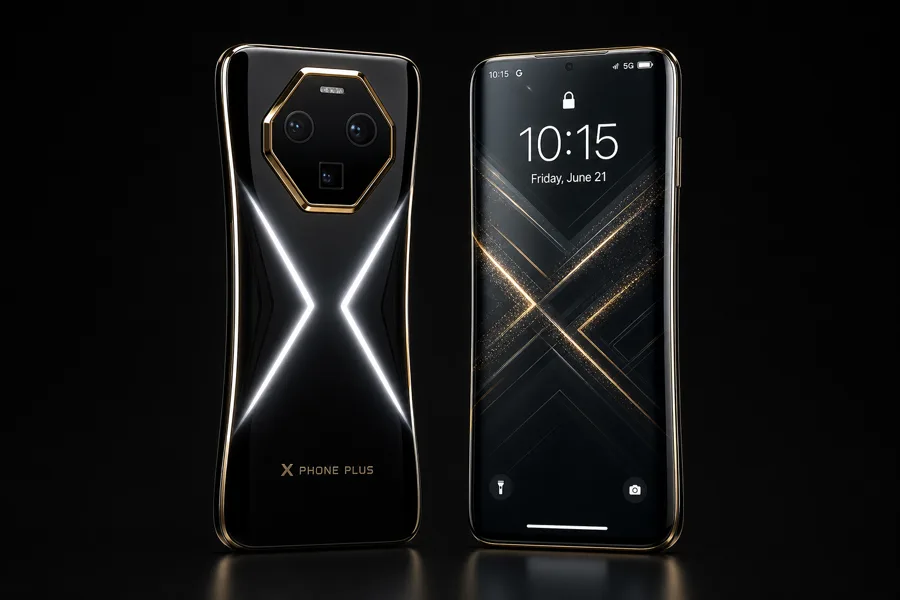
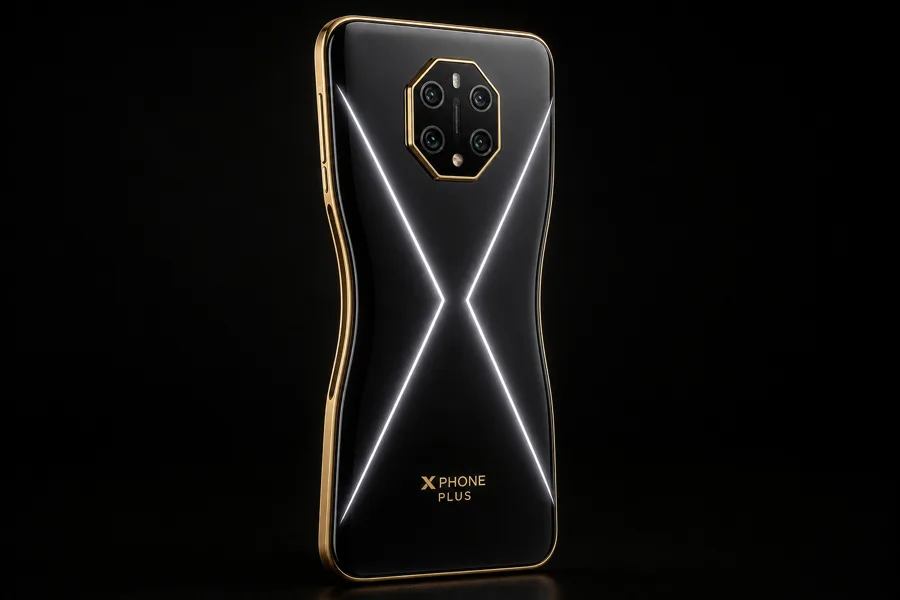
Fix X Phone Plus image: single consistent hourglass silhouette
Replace mismatched front/back dual view with one unified back-angle
product shot so the phone shape is consistent.

Changed region(s): [[0.2178, 0.0, 0.7778, 1.0]]

diff --git a/cart.js b/cart.js
@@ -3,7 +3,7 @@
 
   const products = {
     'x-phone': { id: 'x-phone', name: 'X Phone', price: 899, image: 'images/v4/x-phone.webp?b=3', storage: '256GB' },
-    'x-phone-plus': { id: 'x-phone-plus', name: 'X Phone Plus', price: 1099, image: 'images/v4/x-phone-plus.webp?b=3', storage: '512GB' },
+    'x-phone-plus': { id: 'x-phone-plus', name: 'X Phone Plus', price: 1099, image: 'images/v4/x-phone-plus.webp?b=4', storage: '512GB' },
     'x-phone-pro': { id: 'x-phone-pro', name: 'X Phone Pro', price: 1299, image: 'images/v4/x-phone-pro.webp', storage: '1TB' },
     'x-phone-max': { id: 'x-phone-max', name: 'X Phone Max', price: 1599, image: 'images/v4/x-phone-pro-max.webp', storage: '1.5TB' },
     'x-phone-elite': { id: 'x-phone-elite', name: 'X Phone Elite', price: 1899, image: 'images/v4/x-phone-ultra.webp', storage: '2TB' },

diff --git a/index.html b/index.html
@@ -37,7 +37,7 @@
         </a>
 
         <a href="x-phone-plus.html" class="group block hover:opacity-90 transition">
-          <img src="images/v4/x-phone-plus.webp?b=3" width="800" height="600" loading="lazy" decoding="async" class="w-full aspect-[4/3] object-cover rounded-3xl mb-6 bg-zinc-900" alt="X Phone Plus">
+          <img src="images/v4/x-phone-plus.webp?b=4" width="800" height="600" loading="lazy" decoding="async" class="w-full aspect-[4/3] object-cover rounded-3xl mb-6 bg-zinc-900" alt="X Phone Plus">
           <h3 class="text-3xl font-bold">X Phone Plus</h3>
           <p class="text-zinc-400 text-lg">512GB</p>
           <p class="text-blue-400 text-2xl mb-4">$1,099</p>

diff --git a/shop.html b/shop.html
@@ -29,7 +29,7 @@
 
       <!-- Model 2 -->
       <div class="bg-zinc-900 rounded-3xl overflow-hidden">
-        <a href="x-phone-plus.html"><img src="images/v4/x-phone-plus.webp?b=3" width="800" height="600" loading="lazy" decoding="async" class="w-full h-64 object-cover" alt="X Phone Plus"></a>
+        <a href="x-phone-plus.html"><img src="images/v4/x-phone-plus.webp?b=4" width="800" height="600" loading="lazy" decoding="async" class="w-full h-64 object-cover" alt="X Phone Plus"></a>
         <div class="p-8">
           <h3 class="text-2xl font-bold">X Phone Plus</h3>
           <p class="text-blue-400 text-3xl">$1,099</p>

diff --git a/x-phone-plus.html b/x-phone-plus.html
@@ -11,7 +11,7 @@
   <div id="site-nav" data-active="product"></div>
 
   <div class="pt-24 max-w-7xl mx-auto px-6 py-16 grid md:grid-cols-2 gap-16">
-    <img src="images/v4/x-phone-plus.webp?b=3" width="800" height="600" loading="eager" fetchpriority="high" decoding="async" class="rounded-3xl shadow-2xl w-full object-cover" alt="X Phone Plus">
+    <img src="images/v4/x-phone-plus.webp?b=4" width="800" height="600" loading="eager" fetchpriority="high" decoding="async" class="rounded-3xl shadow-2xl w-full object-cover" alt="X Phone Plus">
 
     <div>
       <h1 class="text-5xl font-bold">X Phone Plus</h1>